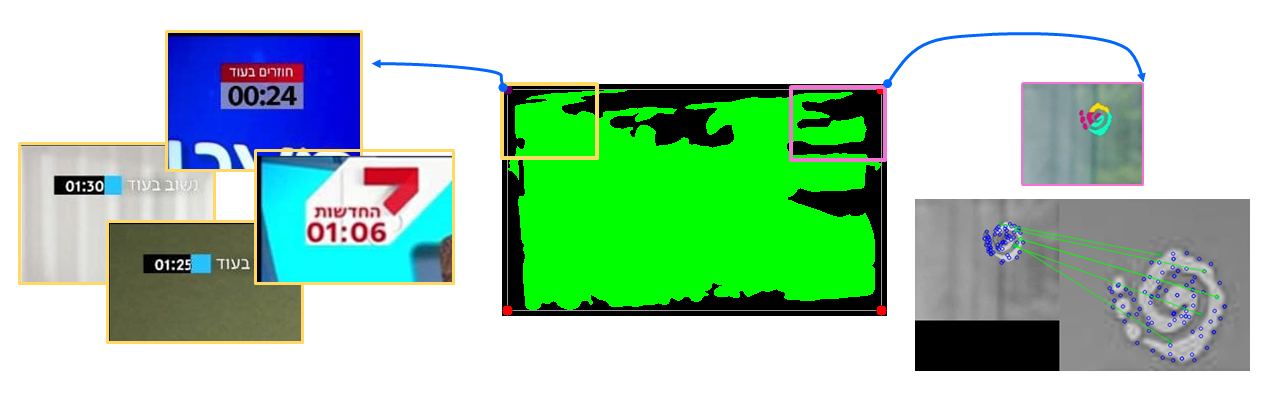
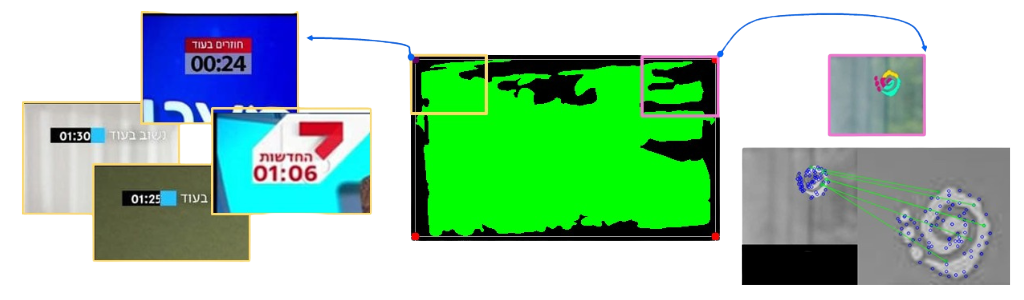
setting transparent bg and relative path to readmeimage

Changed region(s): [[0.0, 0.03, 1.0, 0.96]]

diff --git a/README.md b/README.md
@@ -11,7 +11,7 @@ The ROIs for our case are the top-left, top-right corners, which are then compar
 There is an optional functionality for OCR to get the exact skipping required, but it is currently too slow and therefore commented-out.
 
 
-![](https://github.com/omer-re/Ad-matay/blob/637030a5850c258a6f2eb2b0d4387b3e9cbdd8ea/demo_images/Ad-Matay%20simple%20demo%20image.png)
+![](demo_images/Ad-Matay%20simple%20demo%20image.png)
 
 It includes a testing GUI to examine the process that is also presenting the stages:
 
@@ -78,7 +78,7 @@ That is obviously a context related tradeoff I made, while other needs might req
 Attached is an explained scheme:
 [Link to PDF for better view](https://drive.google.com/file/d/14PyFBqQjhArn8FWC8BHDP_0aOVB6A2bj/view?usp=sharing)
 <img src="https://i.imgur.com/DPVruKH.png" width="800"/>
-<img src="https://i.imgur.com/hKqWxGg.png" width="800"/>
+<img src="demo_images/Ad-Matay%20simple%20demo%20image.png" width="800"/>
 
 #### Why using a single worker per class? 
 From the nature of the challenge I am trying to solve, there's no much value for a true real-time process.
@@ -111,7 +111,7 @@ If your env isn't working, consider installing my packages as well.
 
 ## Modules
 Please note that each module contains `main()` function to allow testing its basic functionalities independently,
-meaning that you can run `(<conda _env) python tv_detector.py` for example.
+meaning that you can run `(<conda _env>) python tv_detector.py` for example.
 
 ### Frame fetcher
 This module's responsibility is taking the input source and push frames of it into the frame_queue.
